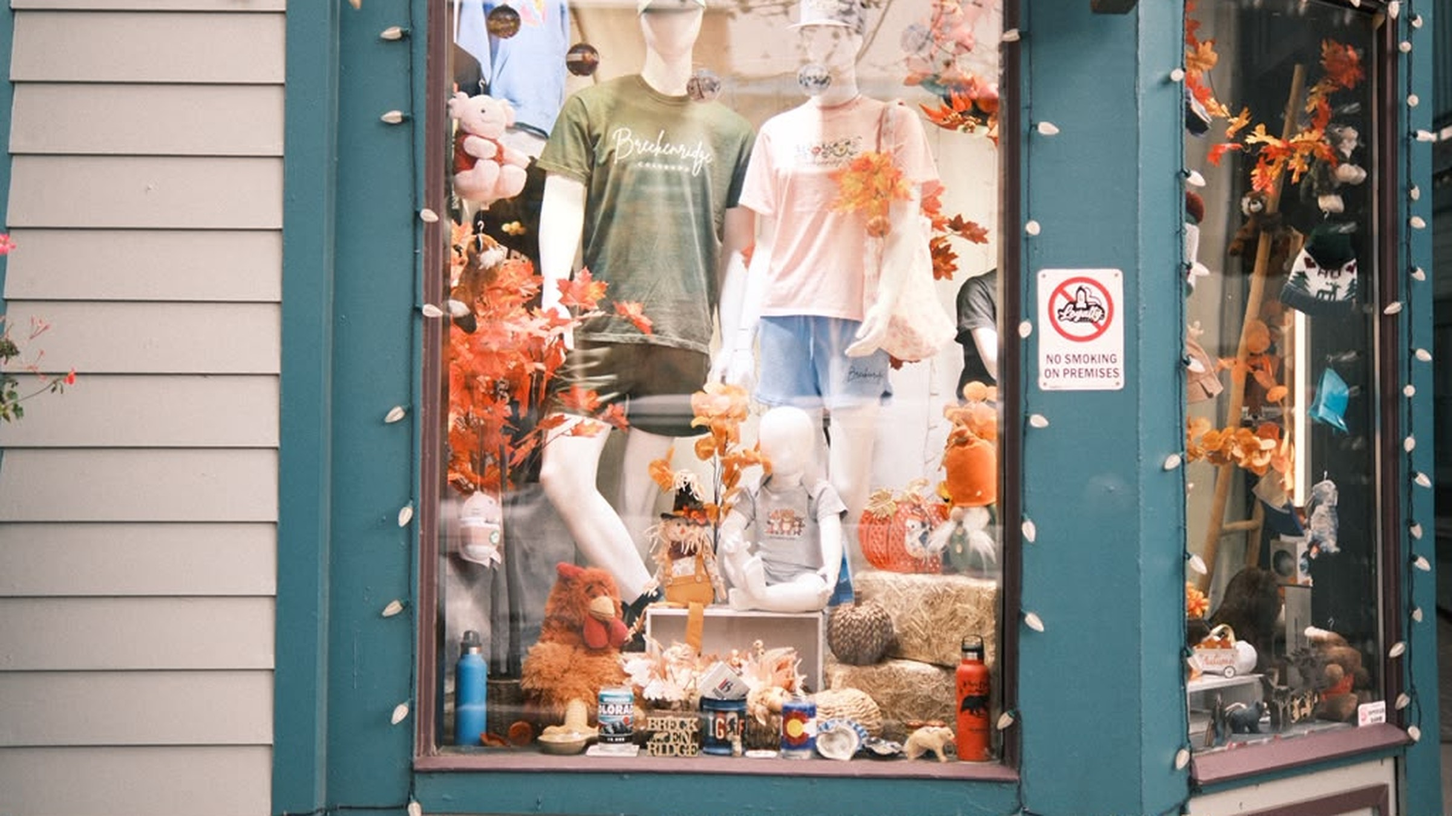
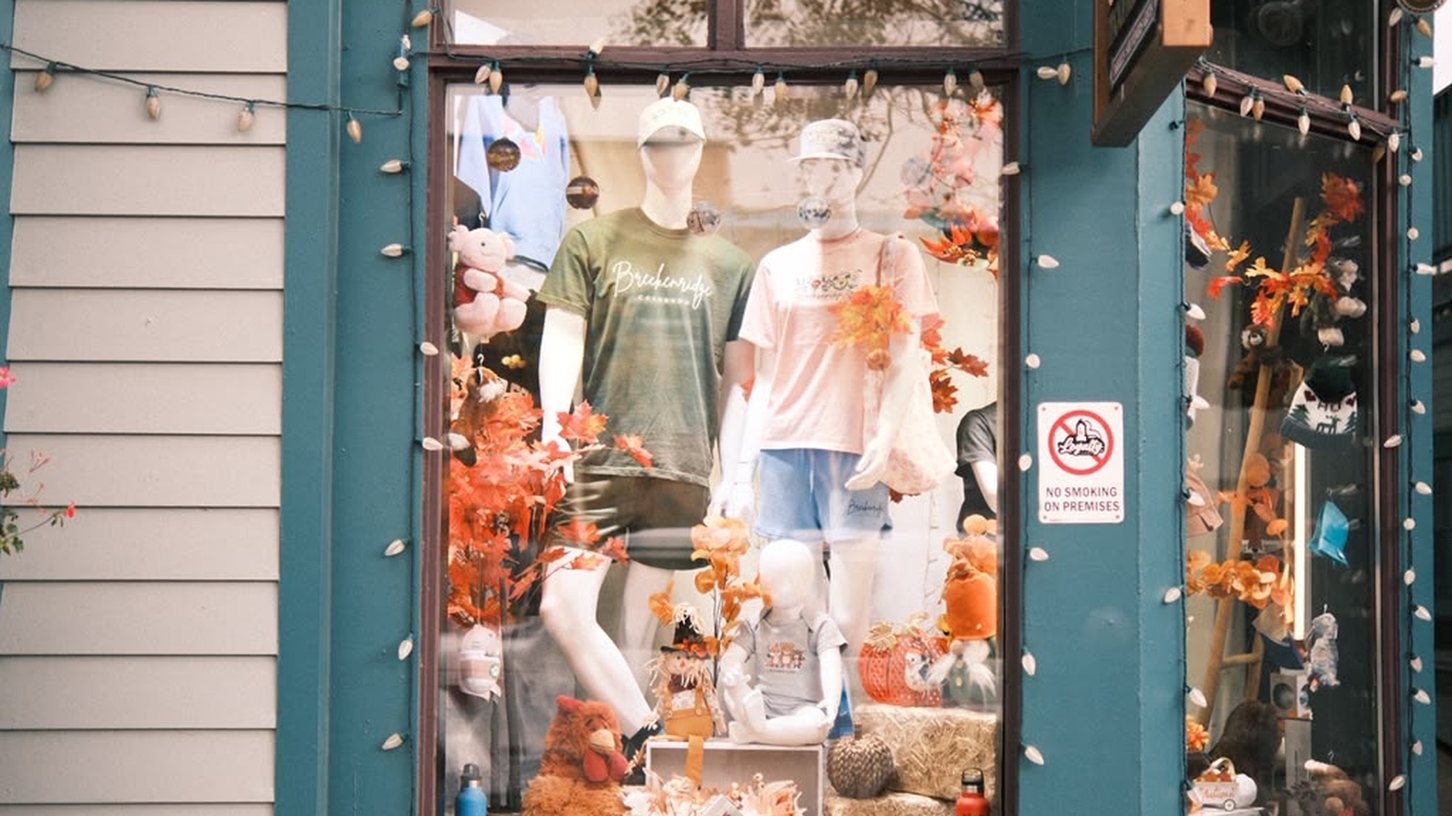
Raise hero window crop so the full storefront display is visible.

diff --git a/index.html b/index.html
@@ -12,7 +12,7 @@
 :root{--ink:#18232b;--blue:#20448c;--red:#c34c31;--paper:#f4f0e9;--white:#fff;--line:#d7d3ca;--muted:#5b6469}
 *{box-sizing:border-box}html{scroll-behavior:smooth;scroll-padding-top:86px;overflow-x:clip}body{margin:0;background:var(--paper);color:var(--ink);font:16px/1.55 Arial,Helvetica,sans-serif;overflow-x:clip;max-width:100%}button,input{font:inherit}button{cursor:pointer}a{color:inherit;text-decoration:none}a:focus-visible,button:focus-visible{outline:3px solid #da694e;outline-offset:3px}img{display:block;max-width:100%}h1,h2,h3,p{margin-top:0}h1,h2,h3{line-height:1.02;letter-spacing:-.045em}h2{font-size:clamp(38px,4.4vw,66px);font-weight:800}h3{font-size:clamp(32px,3.1vw,47px)}.wrap{width:min(100% - 72px,1400px);margin:auto}.eyebrow{font-size:12px;font-weight:800;letter-spacing:.17em;text-transform:uppercase}.small-arrow{font-size:14px;font-weight:800;display:inline-flex;gap:18px;align-items:center;border-bottom:1px solid currentColor;padding-bottom:5px}.small-arrow:hover{color:var(--red)}.small-arrow span{font-size:19px;line-height:1}.button{display:inline-flex;align-items:center;justify-content:space-between;gap:28px;background:var(--ink);color:#fff;padding:16px 19px;font-size:13px;font-weight:800;min-height:54px}.button:hover{background:var(--blue)}
 .site-header{position:sticky;top:0;z-index:50;background:var(--paper);border-bottom:1px solid var(--ink)}.header-inner{height:76px;display:flex;align-items:center;justify-content:space-between;gap:20px}.wordmark{display:flex;align-items:center;gap:11px;font-size:13px;font-weight:900;line-height:1.08;letter-spacing:.025em;text-transform:uppercase}.wordmark-logo{height:40px;width:auto;display:block}.desktop-nav{display:flex;align-items:center;gap:30px;font-size:13px;font-weight:800}.desktop-nav a:hover{text-decoration:underline;text-underline-offset:5px}.desktop-nav .visit-link{border:1px solid var(--ink);padding:10px 16px}.desktop-nav .visit-link:hover{background:var(--ink);color:#fff;text-decoration:none}.menu-button{display:none;background:none;border:0;width:44px;height:44px;padding:0;align-items:center;justify-content:center;color:var(--ink);flex:none}.menu-button svg{width:22px;height:22px;display:block}.menu-button .icon-close{display:none}.menu-button.is-open .icon-menu{display:none}.menu-button.is-open .icon-close{display:block}
-.hero{position:relative;overflow:hidden;background:var(--blue);--hero-bar:#14222d;display:flex;flex-direction:column}.hero-stage{overflow:hidden;flex:1 1 auto;touch-action:pan-y}.hero-track{display:flex;transition:transform .7s cubic-bezier(.22,.75,.3,1)}.hero-slide{min-width:100%;min-height:min(560px,calc(82svh - 76px));display:grid;grid-template-columns:46% 54%;position:relative}.hero-copy{display:flex;flex-direction:column;justify-content:center;padding:56px max(36px,calc((100vw - 1400px)/2)) 56px max(36px,calc((100vw - 1400px)/2));padding-right:6vw;position:relative;z-index:1;color:#fff}.hero-slide:nth-child(2) .hero-copy{background:#233034}.hero-slide:nth-child(3) .hero-copy{background:#70372f}.hero-copy .eyebrow{color:#cddcf4;margin-bottom:22px}.hero h1,.hero h2{font-size:clamp(49px,5.1vw,83px);font-weight:900;max-width:660px;margin:0 0 20px;line-height:.98}.hero-copy p:not(.eyebrow){max-width:430px;font-size:17px;color:#e3e8ef;line-height:1.6;margin-bottom:24px}.hero-copy .button{background:#fff;color:var(--ink);align-self:flex-start}.hero-copy .button:hover{background:#e8e6df}.hero-photo{height:100%;min-height:480px;position:relative;overflow:hidden;background:#9ba4a5}.hero-photo img{width:100%;height:100%;position:absolute;inset:0;object-fit:cover}.hero-slide:first-child .hero-photo img{object-position:center 52%}.hero-slide:nth-child(2) .hero-photo img{object-position:center 58%;filter:brightness(1.1)}.hero-slide:nth-child(3) .hero-photo img{object-position:center;filter:brightness(1.08)}.hero-photo::after{content:"";position:absolute;left:0;right:0;bottom:0;height:80px;background:linear-gradient(to top,rgba(20,34,45,.35) 0%,transparent 100%);z-index:1;pointer-events:none}.hero-footer{flex:none;background:var(--hero-bar);border-top:1px solid #ffffff12;--hero-accent:#91c9ef;--hero-muted:#a8bcc8}.hero-footer-inner{width:min(100% - 72px,1400px);margin:0 auto}.hero-bar{padding:14px 0}.hero-bar-inner{display:flex;align-items:center;justify-content:space-between;gap:24px;color:#fff}.hero-slide-meta{font-size:11px;font-weight:800;letter-spacing:.11em;text-transform:uppercase;color:#a8bcc8;margin:0;white-space:nowrap}.hero-bar-controls{display:flex;align-items:center;gap:16px}.hero-pager{display:flex;gap:7px;align-items:center}.hero-dot{width:36px;height:3px;background:#ffffff50;border:0;padding:0;border-radius:2px;cursor:pointer}.hero-dot.active{background:var(--red)}.hero-count{font-size:11px;font-weight:800;letter-spacing:.12em;color:#c8d8e2;min-width:52px;text-align:center}
+.hero{position:relative;overflow:hidden;background:var(--blue);--hero-bar:#14222d;display:flex;flex-direction:column}.hero-stage{overflow:hidden;flex:1 1 auto;touch-action:pan-y}.hero-track{display:flex;transition:transform .7s cubic-bezier(.22,.75,.3,1)}.hero-slide{min-width:100%;min-height:min(560px,calc(82svh - 76px));display:grid;grid-template-columns:46% 54%;position:relative}.hero-copy{display:flex;flex-direction:column;justify-content:center;padding:56px max(36px,calc((100vw - 1400px)/2)) 56px max(36px,calc((100vw - 1400px)/2));padding-right:6vw;position:relative;z-index:1;color:#fff}.hero-slide:nth-child(2) .hero-copy{background:#233034}.hero-slide:nth-child(3) .hero-copy{background:#70372f}.hero-copy .eyebrow{color:#cddcf4;margin-bottom:22px}.hero h1,.hero h2{font-size:clamp(49px,5.1vw,83px);font-weight:900;max-width:660px;margin:0 0 20px;line-height:.98}.hero-copy p:not(.eyebrow){max-width:430px;font-size:17px;color:#e3e8ef;line-height:1.6;margin-bottom:24px}.hero-copy .button{background:#fff;color:var(--ink);align-self:flex-start}.hero-copy .button:hover{background:#e8e6df}.hero-photo{height:100%;min-height:480px;position:relative;overflow:hidden;background:#9ba4a5}.hero-photo img{width:100%;height:100%;position:absolute;inset:0;object-fit:cover}.hero-slide:first-child .hero-photo img{object-position:center 52%}.hero-slide:nth-child(2) .hero-photo img{object-position:center 40%;filter:brightness(1.1)}.hero-slide:nth-child(3) .hero-photo img{object-position:center;filter:brightness(1.08)}.hero-photo::after{content:"";position:absolute;left:0;right:0;bottom:0;height:80px;background:linear-gradient(to top,rgba(20,34,45,.35) 0%,transparent 100%);z-index:1;pointer-events:none}.hero-footer{flex:none;background:var(--hero-bar);border-top:1px solid #ffffff12;--hero-accent:#91c9ef;--hero-muted:#a8bcc8}.hero-footer-inner{width:min(100% - 72px,1400px);margin:0 auto}.hero-bar{padding:14px 0}.hero-bar-inner{display:flex;align-items:center;justify-content:space-between;gap:24px;color:#fff}.hero-slide-meta{font-size:11px;font-weight:800;letter-spacing:.11em;text-transform:uppercase;color:#a8bcc8;margin:0;white-space:nowrap}.hero-bar-controls{display:flex;align-items:center;gap:16px}.hero-pager{display:flex;gap:7px;align-items:center}.hero-dot{width:36px;height:3px;background:#ffffff50;border:0;padding:0;border-radius:2px;cursor:pointer}.hero-dot.active{background:var(--red)}.hero-count{font-size:11px;font-weight:800;letter-spacing:.12em;color:#c8d8e2;min-width:52px;text-align:center}
 .trust-strip{border-top:1px solid #ffffff10;padding-bottom:4px}.trust-strip-inner{display:grid;grid-template-columns:repeat(3,minmax(0,1fr))}.trust-item{display:flex;align-items:center;gap:14px;padding:20px 0 24px;min-height:76px}.trust-item:not(:last-child){border-right:1px solid #ffffff14;padding-right:clamp(20px,3.5vw,44px);margin-right:clamp(20px,3.5vw,44px)}.trust-icon{flex:none;color:var(--hero-accent);line-height:0}.trust-icon svg{width:22px;height:22px;display:block}.trust-text small{display:block;color:var(--hero-muted);font-size:10px;font-weight:800;letter-spacing:.12em;text-transform:uppercase;margin-bottom:4px}.trust-text strong{display:block;color:#e1e9ed;font-size:clamp(14px,1.35vw,16px);font-weight:700;line-height:1.25;letter-spacing:-.01em}
 .intro{padding:80px 0 72px}.intro-hero{display:grid;grid-template-columns:minmax(0,1fr) minmax(0,min(260px,30%));gap:clamp(28px,5vw,56px);align-items:center}.intro-head{max-width:620px;min-width:0}.intro-mark{justify-self:end;width:100%;max-width:240px;min-width:0;color:var(--blue);opacity:.13;pointer-events:none;user-select:none}.intro-mark svg{width:100%;height:auto;display:block}.intro .eyebrow{margin:0 0 20px}.intro h2{margin:0 0 20px;font-size:clamp(34px,3.6vw,54px)}.intro-lead{font-size:17px;line-height:1.65;color:var(--muted);margin:0}.intro-facts{display:grid;grid-template-columns:repeat(3,minmax(0,1fr));gap:clamp(28px,4vw,52px);margin:0;padding:48px 0 0;border-top:1px solid var(--line);list-style:none}.intro-facts li{font-size:14px;line-height:1.65;color:var(--muted)}.intro-facts strong{display:block;color:var(--ink);font-size:15px;font-weight:800;margin-bottom:8px;letter-spacing:-.02em}.intro-facts a{display:inline-block;margin-top:10px;font-size:13px;font-weight:800;color:var(--blue)}.intro-facts a:hover{text-decoration:underline}.intro-brands{display:flex;flex-wrap:wrap;align-items:center;gap:clamp(24px,4vw,44px);margin-top:44px;padding-top:40px;border-top:1px solid var(--line)}.intro-brands button{display:flex;align-items:center;gap:12px;background:none;border:0;padding:0;color:var(--ink);font-size:13px;font-weight:800;cursor:pointer;line-height:1.2}.intro-brands button:hover{color:var(--blue)}.intro-brands img{width:52px;height:40px;object-fit:contain;display:block}
 .discover{padding:0 0 110px}.section-head{display:flex;align-items:end;justify-content:space-between;gap:25px;padding-bottom:23px;border-bottom:1px solid var(--ink)}.section-head h2{margin:0}.section-head .eyebrow{margin-bottom:15px;color:var(--red)}.section-head>p{font-size:14px;color:var(--muted);max-width:360px;margin:0 0 6px}.store-browser{display:grid;grid-template-columns:270px minmax(0,1fr);border-bottom:1px solid var(--ink)}.store-tabs{border-right:1px solid var(--ink);display:flex;flex-direction:column}.store-tab{border:0;border-bottom:1px solid var(--line);background:transparent;text-align:left;padding:24px 22px 25px 0;color:var(--ink)}.store-tab:last-child{border-bottom:0}.store-tab span{display:block;color:#747e82;font-size:11px;font-weight:800;letter-spacing:.12em;margin-bottom:5px}.store-tab strong{font-size:20px;letter-spacing:-.04em;line-height:1.1}.store-tab[aria-selected=true]{color:var(--blue);padding-left:16px;background:#e7eaf0;box-shadow:inset 4px 0 var(--blue)}.store-view{display:grid;grid-template-columns:minmax(0,1.1fr) minmax(310px,.9fr);min-height:575px}.store-image{position:relative;overflow:hidden;background:#d1d3d1}.store-image img{width:100%;height:100%;position:absolute;inset:0;object-fit:cover;transition:opacity .2s}.store-image img.portrait{object-position:center 50%}.store-caption{position:absolute;bottom:16px;left:16px;background:var(--paper);padding:7px 10px;font-size:10px;text-transform:uppercase;font-weight:800;letter-spacing:.07em}.store-info{display:flex;flex-direction:column;align-items:flex-start;padding:48px 5vw 40px;background:#fff}.store-info .counter{font-size:12px;font-weight:800;color:var(--red);letter-spacing:.12em}.store-info .store-logo{width:100px;height:80px;object-fit:contain;object-position:left center;margin:20px 0 24px}.store-info h3{margin:0 0 17px}.store-info p{color:var(--muted);font-size:16px;line-height:1.65;max-width:340px}.store-info .store-address{font-size:13px;color:var(--ink);font-weight:800;margin:auto 0 25px;padding-top:32px}.store-info .small-arrow{margin-bottom:5px}
@@ -29,7 +29,7 @@ footer{background:var(--ink);color:#fff;padding:62px 0 25px}.footer-main{display
 :root{--ink:#0d161e;--blue:#176eae;--red:#f46b45;--paper:#f8fafb;--line:#dce3e7;--muted:#5a6870;--hero-bar:#14222d}
 body{font-family:system-ui,-apple-system,"Segoe UI",Arial,sans-serif;background:var(--paper)}
 h1,h2,h3{letter-spacing:-.048em}.site-header{background:#fff;border-bottom:1px solid #e8edf0;box-shadow:0 3px 22px #101d2510}.site-header .wordmark-logo{height:46px;width:auto}.site-header .wordmark-name{color:var(--ink);font-size:14px;font-weight:800;letter-spacing:-.02em;text-transform:none;line-height:1.15;white-space:nowrap}.desktop-nav .visit-link{border:0;border-radius:7px;background:var(--ink);color:#fff;padding:12px 17px}.desktop-nav .visit-link:hover{background:var(--blue)}
-.hero{background:var(--ink)}.hero-stage{min-height:clamp(560px,calc(82svh - 76px),820px)}.hero-slide{min-height:clamp(560px,calc(82svh - 76px),820px)}.hero-slide:first-child,.hero-slide:nth-child(3){display:block;min-height:clamp(560px,calc(82svh - 76px),820px)}.hero-slide:first-child .hero-photo,.hero-slide:nth-child(3) .hero-photo{position:absolute;inset:0;min-height:0;height:100%;z-index:0}.hero-slide:first-child .hero-photo img,.hero-slide:nth-child(3) .hero-photo img{object-position:center 45%;filter:brightness(.78) saturate(.95)}.hero-slide:first-child .hero-copy,.hero-slide:nth-child(3) .hero-copy{min-height:clamp(560px,calc(82svh - 76px),820px);width:100%;padding:clamp(56px,7vh,88px) max(36px,calc((100vw - 1400px)/2));background:linear-gradient(90deg,#09121deb 0%,#0a1520c9 34%,#0a152049 72%,#07131a22 100%)}.hero-slide:nth-child(3) .hero-copy{background:linear-gradient(90deg,#111924ee 0%,#151d23d0 36%,#10192351 75%)}.hero-slide:nth-child(2) .hero-copy{background:#111b25}.hero-slide:nth-child(2) .hero-photo img{filter:brightness(.82)}@media(min-width:1100px){.hero-slide:nth-child(2){display:block;position:relative;min-height:clamp(560px,calc(82svh - 76px),820px)}.hero-slide:nth-child(2) .hero-photo{position:absolute;inset:0;min-height:0;height:100%;z-index:0}.hero-slide:nth-child(2) .hero-copy{min-height:clamp(560px,calc(82svh - 76px),820px);width:100%;padding:clamp(56px,7vh,88px) max(36px,calc((100vw - 1400px)/2));background:linear-gradient(90deg,#111b25ef 0%,#111b25cc 38%,#111b2566 64%,#111b2522 100%)}.hero-slide:nth-child(2) .hero-photo img{object-position:center 62%;filter:brightness(.78) saturate(.95)}}@media(min-width:1800px){.hero-stage,.hero-slide,.hero-slide:first-child,.hero-slide:nth-child(2),.hero-slide:nth-child(3),.hero-slide:first-child .hero-copy,.hero-slide:nth-child(2) .hero-copy,.hero-slide:nth-child(3) .hero-copy{min-height:clamp(620px,calc(78svh - 76px),880px)}.hero-slide:first-child .hero-photo img{object-position:center 48%}.hero-slide:nth-child(2) .hero-photo img{object-position:center 66%}.hero-slide:nth-child(3) .hero-photo img{object-position:center 50%}.hero h1,.hero h2{font-size:clamp(44px,3.1vw,68px)}}.hero-copy{z-index:1}.hero-copy .eyebrow{color:#91c9ef;font-size:11px;margin-bottom:18px}.hero h1,.hero h2{max-width:600px;font-size:clamp(44px,4.2vw,68px)}.hero h1 em{font-style:normal;color:#7ac8f5}.hero-copy p:not(.eyebrow){font-size:16px;color:#e1e9ed}.hero-copy .button{background:var(--red);color:#fff;border-radius:7px;box-shadow:0 9px 28px #0003;justify-content:center;gap:0;padding:14px 22px;min-height:48px;font-size:13px}.hero-copy .button:hover{background:#de5834}.hero-photo::after{height:60px;background:linear-gradient(to top,rgba(20,34,45,.3) 0%,transparent 100%)}
+.hero{background:var(--ink)}.hero-stage{min-height:clamp(560px,calc(82svh - 76px),820px)}.hero-slide{min-height:clamp(560px,calc(82svh - 76px),820px)}.hero-slide:first-child,.hero-slide:nth-child(3){display:block;min-height:clamp(560px,calc(82svh - 76px),820px)}.hero-slide:first-child .hero-photo,.hero-slide:nth-child(3) .hero-photo{position:absolute;inset:0;min-height:0;height:100%;z-index:0}.hero-slide:first-child .hero-photo img,.hero-slide:nth-child(3) .hero-photo img{object-position:center 45%;filter:brightness(.78) saturate(.95)}.hero-slide:first-child .hero-copy,.hero-slide:nth-child(3) .hero-copy{min-height:clamp(560px,calc(82svh - 76px),820px);width:100%;padding:clamp(56px,7vh,88px) max(36px,calc((100vw - 1400px)/2));background:linear-gradient(90deg,#09121deb 0%,#0a1520c9 34%,#0a152049 72%,#07131a22 100%)}.hero-slide:nth-child(3) .hero-copy{background:linear-gradient(90deg,#111924ee 0%,#151d23d0 36%,#10192351 75%)}.hero-slide:nth-child(2) .hero-copy{background:#111b25}.hero-slide:nth-child(2) .hero-photo img{filter:brightness(.82)}@media(min-width:1100px){.hero-slide:nth-child(2){display:block;position:relative;min-height:clamp(560px,calc(82svh - 76px),820px)}.hero-slide:nth-child(2) .hero-photo{position:absolute;inset:0;min-height:0;height:100%;z-index:0}.hero-slide:nth-child(2) .hero-copy{min-height:clamp(560px,calc(82svh - 76px),820px);width:100%;padding:clamp(56px,7vh,88px) max(36px,calc((100vw - 1400px)/2));background:linear-gradient(90deg,#111b25ef 0%,#111b25cc 38%,#111b2566 64%,#111b2522 100%)}.hero-slide:nth-child(2) .hero-photo img{object-position:center 42%;filter:brightness(.78) saturate(.95)}}@media(min-width:1800px){.hero-stage,.hero-slide,.hero-slide:first-child,.hero-slide:nth-child(2),.hero-slide:nth-child(3),.hero-slide:first-child .hero-copy,.hero-slide:nth-child(2) .hero-copy,.hero-slide:nth-child(3) .hero-copy{min-height:clamp(620px,calc(78svh - 76px),880px)}.hero-slide:first-child .hero-photo img{object-position:center 48%}.hero-slide:nth-child(2) .hero-photo img{object-position:center 44%}.hero-slide:nth-child(3) .hero-photo img{object-position:center 50%}.hero h1,.hero h2{font-size:clamp(44px,3.1vw,68px)}}.hero-copy{z-index:1}.hero-copy .eyebrow{color:#91c9ef;font-size:11px;margin-bottom:18px}.hero h1,.hero h2{max-width:600px;font-size:clamp(44px,4.2vw,68px)}.hero h1 em{font-style:normal;color:#7ac8f5}.hero-copy p:not(.eyebrow){font-size:16px;color:#e1e9ed}.hero-copy .button{background:var(--red);color:#fff;border-radius:7px;box-shadow:0 9px 28px #0003;justify-content:center;gap:0;padding:14px 22px;min-height:48px;font-size:13px}.hero-copy .button:hover{background:#de5834}.hero-photo::after{height:60px;background:linear-gradient(to top,rgba(20,34,45,.3) 0%,transparent 100%)}
 .icon-ring{width:40px;height:40px;display:grid;place-items:center;border:1px solid #5294c166;border-radius:50%;background:#0d253566;flex:none}.icon-ring svg{width:18px;height:18px;color:#8bcdf6}
 .trust-stars{color:#f5a623;font-size:13px;letter-spacing:1px;display:block;margin:4px 0 6px}
 .store-info .store-logo{background:#fff;border:1px solid #e8edf0;border-radius:8px;padding:8px;object-fit:contain}
@@ -42,7 +42,7 @@ h1,h2,h3{letter-spacing:-.048em}.site-header{background:#fff;border-bottom:1px s
 .feature-split{background:#0c151d;color:#fff;padding:80px 0;overflow:hidden}.feature-layout{display:grid;grid-template-columns:1fr 1fr;gap:6vw;align-items:center}.feature-visual{height:400px;position:relative;margin-right:18px}.feature-visual:before{content:"";position:absolute;inset:-10px 12px 12px -10px;border:1px solid #5683a0;z-index:0;border-radius:9px}.feature-visual img{position:relative;width:100%;height:100%;object-fit:cover;object-position:center 38%;border-radius:10px;filter:brightness(.9)}.feature-stamp{position:absolute;right:-22px;bottom:-20px;width:190px;min-height:110px;padding:14px 16px;background:#1375b4;color:#fff;border-radius:9px;box-shadow:0 14px 26px #0006;display:flex;flex-direction:column;justify-content:center}.feature-stamp span{font-size:9px;font-weight:800;letter-spacing:.12em;color:#d5f1ff}.feature-stamp strong{font-size:15px;line-height:1.12;margin:6px 0}.feature-stamp small{font-size:10px;color:#d7edfa}.feature-copy .eyebrow{color:#70bee9;margin-bottom:18px}.feature-copy h2{max-width:520px;margin:0 0 18px;font-size:clamp(32px,3.5vw,48px)}.feature-copy>p:not(.eyebrow){color:#b2c3cd;max-width:460px;font-size:15px;line-height:1.65}.feature-points{display:grid;gap:0;margin:22px 0 28px;max-width:440px}.feature-copy .small-arrow{color:#fff}.feature-copy .small-arrow:hover{color:#84cbf5}
 .photo-section{background:radial-gradient(circle at 11% 0%,#daedf8,transparent 36%),#f5f9fb}.bottom-photo .overlay{background:linear-gradient(90deg,#0d161ed9,#0d161e57)}.bottom-photo h2{max-width:800px}.footer-main .wordmark-logo{height:46px;width:auto}.footer-main .wordmark-name{color:#fff;font-size:14px;font-weight:800;letter-spacing:-.02em;text-transform:none;line-height:1.15}
 @media(max-width:900px){.feature-layout{gap:45px}.feature-visual{height:460px}.hero-slide:first-child .hero-copy,.hero-slide:nth-child(3) .hero-copy{padding-left:28px;padding-right:28px}.reviews-header{flex-direction:column;align-items:stretch}.reviews-actions{align-self:flex-start}.hero-bar-inner{flex-wrap:wrap;gap:12px}.hero-slide-meta{width:100%;text-align:left}.hero-bar-controls{width:100%;justify-content:space-between}.hero-footer-inner{width:calc(100% - 38px)}}
-@media(max-width:650px){.hero-slide,.hero-slide:first-child,.hero-slide:nth-child(2),.hero-slide:nth-child(3){display:flex!important;flex-direction:column-reverse;grid-template-columns:unset;min-height:0;align-items:stretch}.hero-photo,.hero-slide:first-child .hero-photo,.hero-slide:nth-child(2) .hero-photo,.hero-slide:nth-child(3) .hero-photo{position:relative;flex:none;width:100%;height:252px;min-height:252px;max-height:252px;overflow:hidden;inset:auto}.hero-photo img,.hero-slide:first-child .hero-photo img,.hero-slide:nth-child(2) .hero-photo img,.hero-slide:nth-child(3) .hero-photo img{position:absolute;inset:0;width:100%;height:100%;object-fit:cover;filter:brightness(.92)}.hero-slide:first-child .hero-photo img{object-position:center 42%}.hero-slide:nth-child(2) .hero-photo img{object-position:center 38%}.hero-slide:nth-child(3) .hero-photo img{object-position:center 45%}.hero{--hero-bar:#111b25;background:#111b25}.hero-footer{background:#111b25;border-top-color:#ffffff10}.hero-copy,.hero-slide:first-child .hero-copy,.hero-slide:nth-child(2) .hero-copy,.hero-slide:nth-child(3) .hero-copy{min-height:0;flex:1 1 auto;justify-content:flex-start;width:100%;background:#111b25;padding:28px 20px 32px}.hero-photo::after{display:none}.hero-copy .eyebrow{margin-bottom:16px;font-size:10px}.hero h1,.hero h2{font-size:clamp(34px,9vw,48px);max-width:none;margin-bottom:14px}.hero-copy p:not(.eyebrow){max-width:none;font-size:15px;margin-bottom:16px}.hero-track{align-items:stretch}.hero-slide{align-self:stretch}.intro{padding:64px 0 56px}.discover{padding:64px 0 0}.reviews-section{padding:48px 0 64px}.reviews-tabs{display:grid;grid-template-columns:repeat(2,minmax(0,1fr));gap:8px}.review-tab{display:flex;align-items:center;justify-content:center;width:100%;text-align:center;padding:10px 8px;font-size:12px;line-height:1.35;white-space:normal}.store-browser{border-radius:12px}.store-tab[aria-selected=true]{box-shadow:inset 0 -4px var(--blue);padding-left:10px}.store-tab{padding-left:10px}.feature-split{padding:64px 0 72px}.feature-layout{grid-template-columns:1fr;gap:48px}.feature-visual{height:300px;margin-right:14px}.feature-stamp{right:-10px;bottom:-18px;width:175px;min-height:96px}.feature-copy h2{font-size:34px}.photo-section{padding:56px 0 64px}.reviews-panel{padding:20px 18px}.reviews-score-block .big{font-size:40px}.route{padding:64px 0 72px}.gallery-layout{grid-template-columns:1fr}}
+@media(max-width:650px){.hero-slide,.hero-slide:first-child,.hero-slide:nth-child(2),.hero-slide:nth-child(3){display:flex!important;flex-direction:column-reverse;grid-template-columns:unset;min-height:0;align-items:stretch}.hero-photo,.hero-slide:first-child .hero-photo,.hero-slide:nth-child(2) .hero-photo,.hero-slide:nth-child(3) .hero-photo{position:relative;flex:none;width:100%;height:252px;min-height:252px;max-height:252px;overflow:hidden;inset:auto}.hero-photo img,.hero-slide:first-child .hero-photo img,.hero-slide:nth-child(2) .hero-photo img,.hero-slide:nth-child(3) .hero-photo img{position:absolute;inset:0;width:100%;height:100%;object-fit:cover;filter:brightness(.92)}.hero-slide:first-child .hero-photo img{object-position:center 42%}.hero-slide:nth-child(2) .hero-photo img{object-position:center 32%}.hero-slide:nth-child(3) .hero-photo img{object-position:center 45%}.hero{--hero-bar:#111b25;background:#111b25}.hero-footer{background:#111b25;border-top-color:#ffffff10}.hero-copy,.hero-slide:first-child .hero-copy,.hero-slide:nth-child(2) .hero-copy,.hero-slide:nth-child(3) .hero-copy{min-height:0;flex:1 1 auto;justify-content:flex-start;width:100%;background:#111b25;padding:28px 20px 32px}.hero-photo::after{display:none}.hero-copy .eyebrow{margin-bottom:16px;font-size:10px}.hero h1,.hero h2{font-size:clamp(34px,9vw,48px);max-width:none;margin-bottom:14px}.hero-copy p:not(.eyebrow){max-width:none;font-size:15px;margin-bottom:16px}.hero-track{align-items:stretch}.hero-slide{align-self:stretch}.intro{padding:64px 0 56px}.discover{padding:64px 0 0}.reviews-section{padding:48px 0 64px}.reviews-tabs{display:grid;grid-template-columns:repeat(2,minmax(0,1fr));gap:8px}.review-tab{display:flex;align-items:center;justify-content:center;width:100%;text-align:center;padding:10px 8px;font-size:12px;line-height:1.35;white-space:normal}.store-browser{border-radius:12px}.store-tab[aria-selected=true]{box-shadow:inset 0 -4px var(--blue);padding-left:10px}.store-tab{padding-left:10px}.feature-split{padding:64px 0 72px}.feature-layout{grid-template-columns:1fr;gap:48px}.feature-visual{height:300px;margin-right:14px}.feature-stamp{right:-10px;bottom:-18px;width:175px;min-height:96px}.feature-copy h2{font-size:34px}.photo-section{padding:56px 0 64px}.reviews-panel{padding:20px 18px}.reviews-score-block .big{font-size:40px}.route{padding:64px 0 72px}.gallery-layout{grid-template-columns:1fr}}
 @media(max-width:380px){.hero h1,.hero h2{font-size:32px}.site-header .wordmark-name{font-size:11px;max-width:7.5em}.feature-visual{height:310px}.feature-stamp{right:-8px}}
 
 </style>
@@ -52,7 +52,7 @@ h1,h2,h3{letter-spacing:-.048em}.site-header{background:#fff;border-bottom:1px s
 <main id="top">
 <section class="hero" aria-label="Featured stories"><div class="hero-stage"><div class="hero-track" id="heroTrack">
 <article class="hero-slide"><div class="hero-copy"><p class="eyebrow">Breckenridge, Colorado</p><h1>Four shops.<br><em>One Main Street.</em></h1><p>Apparel, gifts, and Colorado souvenirs at four storefronts downtown. Walk in anytime — no appointment needed.</p><a class="button" href="#shops">View the four shops</a></div><div class="hero-photo"><img src="assets/style-storefront.jpg" alt="Mountain Style storefront at 111 South Main Street, Breckenridge" width="2400" height="1350"></div></article>
-<article class="hero-slide"><div class="hero-copy"><p class="eyebrow">Inside the stores</p><h2>Tees, hoodies, mugs, and mountain gifts.</h2><p>Breckenridge and Colorado-branded clothing on the racks, plus mugs, patches, and souvenirs on the shelves — the kind of stuff people pack in a carry-on.</p><a class="button" href="#moments">Store photos</a></div><div class="hero-photo"><img src="assets/store-hero.jpg" alt="Autumn window display with Breckenridge apparel and Colorado gifts" width="2400" height="1350" loading="lazy"></div></article>
+<article class="hero-slide"><div class="hero-copy"><p class="eyebrow">Inside the stores</p><h2>Tees, hoodies, mugs, and mountain gifts.</h2><p>Breckenridge and Colorado-branded clothing on the racks, plus mugs, patches, and souvenirs on the shelves — the kind of stuff people pack in a carry-on.</p><a class="button" href="#moments">Store photos</a></div><div class="hero-photo"><img src="assets/store-hero.jpg?v=2" alt="Autumn window display with Breckenridge apparel and Colorado gifts" width="2400" height="1350" loading="lazy"></div></article>
 <article class="hero-slide"><div class="hero-copy"><p class="eyebrow">Colorado keepsakes</p><h2>Figurines, ornaments, and local gifts.</h2><p>Bear-and-cabin figurines, snow globes, and Colorado-themed items on the shelves — popular picks for family and coworkers back home.</p><a class="button" href="#visit">Get directions</a></div><div class="hero-photo"><img src="assets/keepsakes.jpg" alt="Breckenridge bear figurines and Colorado souvenirs on a gift shop shelf" width="2400" height="1350" loading="lazy"></div></article>
 </div></div><div class="hero-footer"><div class="hero-bar"><div class="hero-footer-inner hero-bar-inner"><p class="hero-slide-meta" id="heroMeta">111 S Main St · Mountain Style</p><div class="hero-bar-controls"><div class="hero-pager" aria-label="Choose hero slide"><button class="hero-dot active" data-slide="0" aria-label="Show slide 1" aria-current="true"></button><button class="hero-dot" data-slide="1" aria-label="Show slide 2"></button><button class="hero-dot" data-slide="2" aria-label="Show slide 3"></button></div><span class="hero-count" id="heroCount">01 / 03</span></div></div></div><div class="trust-strip"><div class="hero-footer-inner trust-strip-inner"><div class="trust-item"><span class="trust-icon" aria-hidden="true"><svg viewBox="0 0 24 24" fill="none" stroke="currentColor" stroke-width="1.75"><path d="M3 9l9-6 9 6v11a1 1 0 0 1-1 1h-5v-7H9v7H4a1 1 0 0 1-1-1V9z"/></svg></span><span class="trust-text"><small>4 stores</small><strong>All on Main Street</strong></span></div><div class="trust-item"><span class="trust-icon" aria-hidden="true"><svg viewBox="0 0 24 24" fill="none" stroke="currentColor" stroke-width="1.75"><path d="M20.59 13.41l-7.17 7.17a2 2 0 0 1-2.83 0L2 12V2h10l8.59 8.59a2 2 0 0 1 0 2.82z"/><circle cx="7" cy="7" r="1.5" fill="currentColor" stroke="none"/></svg></span><span class="trust-text"><small>What we carry</small><strong>Apparel, mugs &amp; gifts</strong></span></div><div class="trust-item"><span class="trust-icon" aria-hidden="true"><svg viewBox="0 0 24 24" fill="none" stroke="currentColor" stroke-width="1.75"><path d="M23 19a2 2 0 0 1-2 2H3a2 2 0 0 1-2-2V8a2 2 0 0 1 2-2h4l2-3h6l2 3h4a2 2 0 0 1 2 2z"/><circle cx="12" cy="13" r="4"/></svg></span><span class="trust-text"><small>From visitors</small><strong>Real Google review photos</strong></span></div></div></div></div></section>
 <section class="intro" id="story"><div class="wrap"><div class="intro-hero"><div class="intro-head"><p class="eyebrow">About the shops</p><h2>Four stores on Main Street, each with a different focus.</h2><p class="intro-lead">Mountain Style Shops runs four retail locations in downtown Breckenridge. Mountain Style and Mountain Vibe lean toward apparel and accessories. Colorado Concept focuses on state-themed gifts. Simply Breck carries Breckenridge-specific merchandise.</p></div><div class="intro-mark" aria-hidden="true"><svg viewBox="0 0 240 240" fill="none" xmlns="http://www.w3.org/2000/svg"><circle cx="120" cy="120" r="108" stroke="currentColor" stroke-width="1.5"/><circle cx="120" cy="120" r="78" stroke="currentColor" stroke-width="1" opacity=".6"/><path d="M28 178 72 88 108 138 148 62 188 118 212 178Z" fill="currentColor"/><path d="M0 188 38 128 68 158 98 108 128 148 168 98 208 138 240 118V188H0Z" fill="currentColor" opacity=".45"/></svg></div></div><ul class="intro-facts"><li><strong>Walkable downtown</strong>All four addresses are on or just off Main Street — easy to hit in one afternoon.</li><li><strong>Year-round inventory</strong>Seasonal apparel, Colorado gifts, and souvenirs stocked throughout the year.</li><li><strong>Reviewed on Google Maps</strong><span class="trust-stars" aria-label="5 stars">★★★★★</span>See what visitors wrote about each shop — and leave your own after a visit. <a href="#reviews">Read the reviews</a></li></ul><div class="intro-brands" aria-label="Four shop brands"><button type="button" data-jump-shop="style" aria-label="Explore Mountain Style"><img src="assets/logo-style.png" alt="" loading="lazy"><span>Mountain Style</span></button><button type="button" data-jump-shop="vibe" aria-label="Explore Mountain Vibe"><img src="assets/logo-vibe.png" alt="" loading="lazy"><span>Mountain Vibe</span></button><button type="button" data-jump-shop="concept" aria-label="Explore Colorado Concept"><img src="assets/logo-concept.png" alt="" loading="lazy"><span>Colorado Concept</span></button><button type="button" data-jump-shop="simply" aria-label="Explore Simply Breck"><img src="assets/logo-simply.png" alt="" loading="lazy"><span>Simply Breck</span></button></div></div></section>
